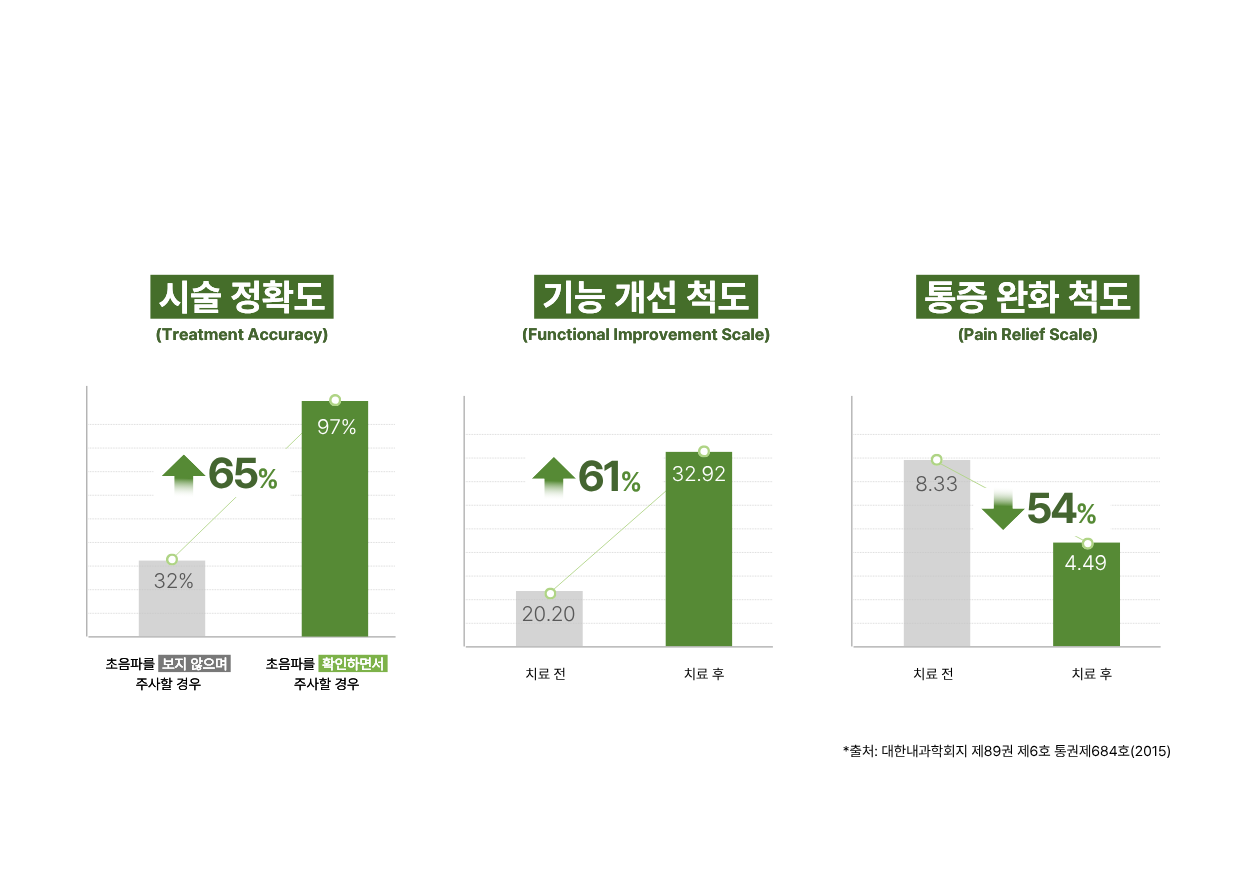
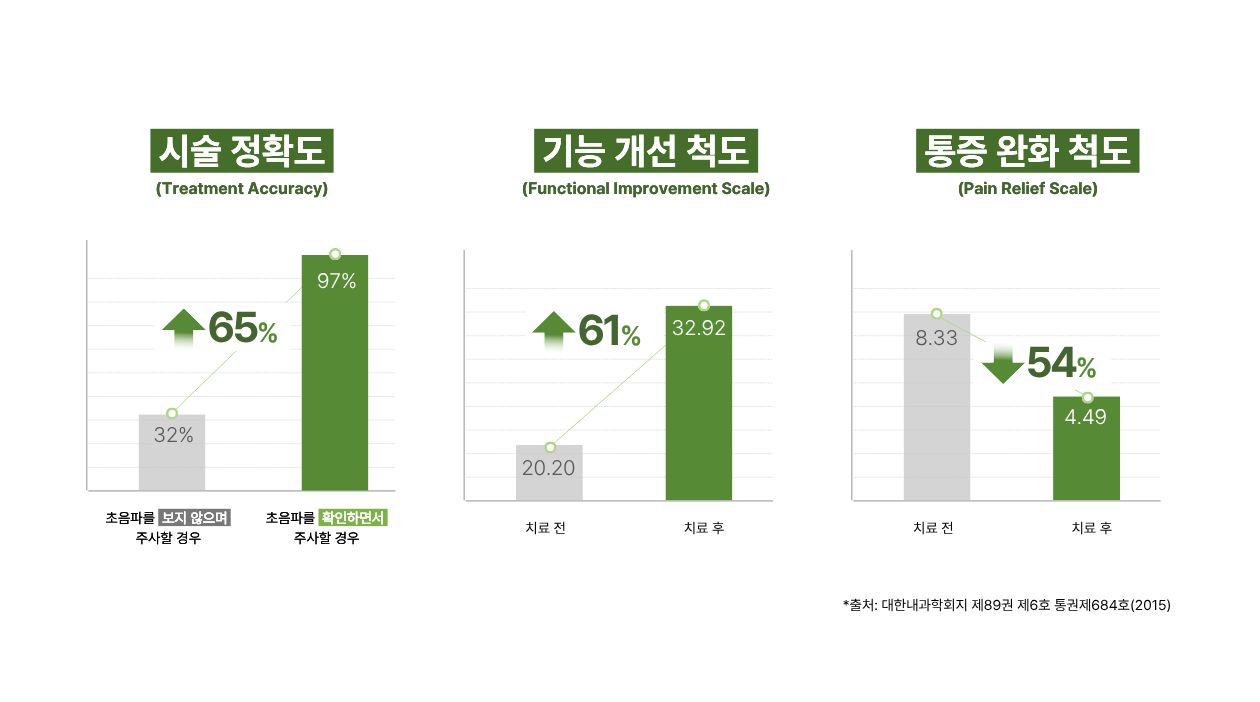
척추관절 클리닉 하단 그래프를 교체하고 장점 제목을 추가한다.

diff --git a/frontend/src/pages/ClinicCoreImmunity.tsx b/frontend/src/pages/ClinicCoreImmunity.tsx
@@ -44,11 +44,14 @@ function ClinicCoreImmunity() {
       </section>
 
       <section className="border-t border-slate-100 bg-cream-white px-6 py-12 md:py-16">
-        <div className="mx-auto max-w-6xl">
+        <div className="mx-auto max-w-6xl text-center">
+          <h2 className="text-3xl font-semibold leading-snug text-slate-900 md:text-4xl">
+            초음파 유도 약침시술의 장점
+          </h2>
           <img
             src="/images/clinics/SONO03.png"
-            alt="시술 효과 그래프"
-            className="mx-auto h-auto w-full max-w-5xl object-contain"
+            alt="초음파 유도 약침시술의 장점 그래프"
+            className="mx-auto mt-8 h-auto w-full max-w-5xl object-contain md:mt-10"
           />
         </div>
       </section>
